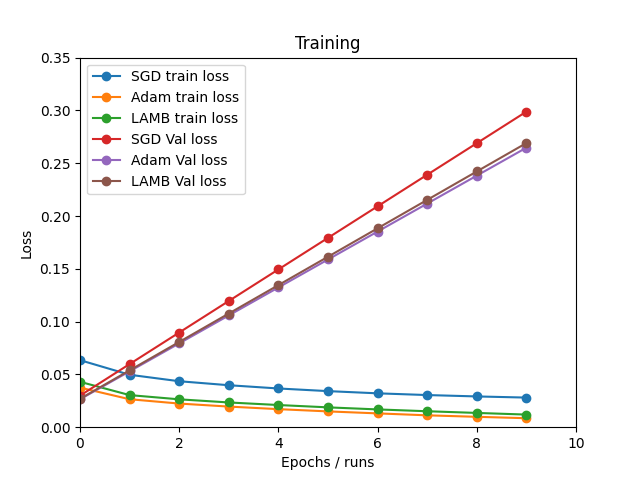
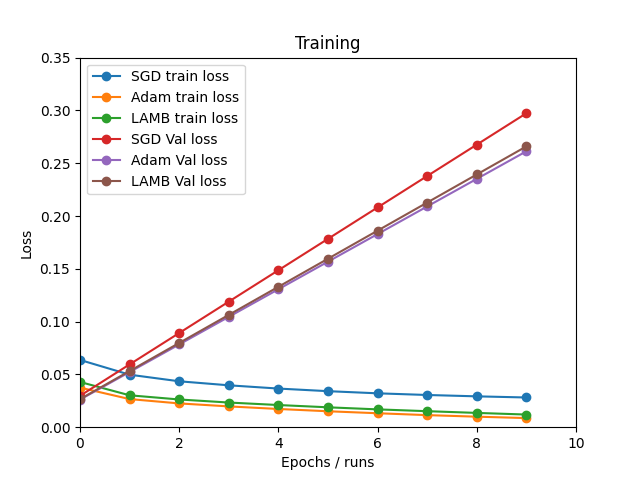
fixing some hyperparameters.

diff --git a/menu.py b/menu.py
@@ -1,8 +1,7 @@
 import sys, os, pathlib, torch, time, math
 import torch_optimizer as optim
-import warnings
-
-from torch.serialization import SourceChangeWarning
+#import warnings
+#from torch.serialization import SourceChangeWarning
 from service import Service
 from plotter import Plotter
 from storage import Storage
@@ -12,8 +11,6 @@ from calculator import Calculator
 class Menu():
     def __init__(self):       
         self.service = Service()
-        self.epochs = 10
-        self.learning_rate = 0.001
         self.plotter = Plotter()
         self.storage = Storage()
         self.calculator = Calculator()
@@ -45,10 +42,10 @@ class Menu():
     # @learning_rate     User input vslue which defines the step size in the data record 
     # @epochs            User input which defines the cycles over the data  
     def validate_and_safe(self, optimizer_name, learning_rate, epochs):
-        self.service.validate_cifar(self.epochs)
-        self.storage.save_csv_file(self.service.optimizer_name, 'training', self.service.training_loss)
-        self.storage.save_csv_file(self.service.optimizer_name, 'validation', self.service.validation_loss)
-        self.storage.save_csv_file(self.service.optimizer_name, 'accuracy', self.service.validation_accuracy)
+        self.service.validate_cifar(self.service.epochs)
+        self.storage.save_csv_file(self.service.optimizer_name, 'training', self.service.training_loss, self.service.epochs)
+        self.storage.save_csv_file(self.service.optimizer_name, 'validation', self.service.validation_loss, self.service.epochs)
+        self.storage.save_csv_file(self.service.optimizer_name, 'accuracy', self.service.validation_accuracy, self.service.epochs)
         print('Data is saved.\n')
 
     # Calls functions to show the selected optimizer benchmark.
@@ -70,24 +67,21 @@ class Menu():
             train_loss_avg_list.append(train_loss_average)
             val_loss_avg_list.append(val_loss_average)
             accuracy_avg_list.append(accuracy_average)
-        self.plotter.plot_loss(train_loss_avg_list, val_loss_avg_list, 0, self.epochs, 0, 0.35, 'Loss', 'Epochs / runs', 'Training', 'Loss', 'Benchmark_overview', 'training')
-        self.plotter.plot_accuracy(accuracy_avg_list, None, None, 0, 100, 'Percent', None, 'Validation', 'Accuracy','Benchmark_overview', 'accuracy')
+        self.plotter.plot_loss(train_loss_avg_list, val_loss_avg_list, 0, self.epochs, 0, 0.35, 'Loss', 'Epochs', 'Training', 'Loss', 'Benchmark_overview', 'training', self.service.epochs)
+        self.plotter.plot_accuracy(accuracy_avg_list, None, None, 0, 100, 'Percent', 'Run', 'Validation', 'Accuracy','Benchmark_overview', 'accuracy', self.service.epochs)
 
     # Executes the functions based on the menu selectection.
     # @selection      selected number    
     def selected_option(self, selection): 
         if selection == '1':
-            print('You selected the SGD optimizer. Parameters are set to 10 epochs and to 0.001 as learning rate.')
-            self.service.training(torch.optim.SGD(self.service.model.parameters(), lr=self.learning_rate), 'SGD', self.learning_rate, self.epochs)
+            self.service.training(torch.optim.SGD(self.service.model.parameters(), lr=self.service.learning_rate), 'SGD', self.service.learning_rate, self.service.epochs)
             self.validate_and_safe('SGD', self.learning_rate, self.epochs)
         elif selection == '2':
-            print('You selected the Adam optimizer. Parameters are set to 10 epochs and to 0.001 as learning rate.') 
-            self.service.training(torch.optim.Adam(self.service.model.parameters(), lr=self.learning_rate), 'Adam', self.learning_rate, self.epochs)
-            self.validate_and_safe('Adam', self.learning_rate, self.epochs)
+            self.service.training(torch.optim.Adam(self.service.model.parameters(), lr=self.service.learning_rate), 'Adam', self.service.learning_rate, self.service.epochs)
+            self.validate_and_safe('Adam', self.service.learning_rate, self.service.epochs)
         elif selection == '3':
-            print('You selected the LAMB optimizer. Parameters are set to 10 epochs and to 0.001 as learning rate.') 
-            self.service.training(optim.Lamb(self.service.model.parameters(), lr=self.learning_rate), 'LAMB', self.learning_rate, self.epochs)
-            self.validate_and_safe('LAMB', self.learning_rate, self.epochs) 
+            self.service.training(optim.Lamb(self.service.model.parameters(), lr=self.learning_rate), 'LAMB', self.service.learning_rate, self.service.epochs)
+            self.validate_and_safe('LAMB', self.service.learning_rate, self.service.epochs) 
         elif selection == '4':
             self.show_benchmark('SGD', 'Adam', 'LAMB')
         elif selection == '5':

diff --git a/service.py b/service.py
@@ -7,11 +7,12 @@ from model import Model
 
 # Class to handles all 
 class Service():
-
     # Initializes the Service object. 
     def __init__(self):
         super().__init__()
         self.batch_size = 32
+        self.epochs = 20
+        self.learning_rate = 0.001
         self.criterion = torch.nn.CrossEntropyLoss() #combines LogSoftmax and NLLLoss in one single class. Good for classification.
         self.optimizer_name = ''
         self.transform = transforms.Compose([transforms.ToTensor(), transforms.Normalize((0.5, 0.5, 0.5), (0.5, 0.5, 0.5))])
@@ -25,15 +26,14 @@ class Service():
         self.validation_accuracy = []  
 
     # Trains the model with the downloaded training dataset. 
-    # @return    the elapsed time to train the model with the given hyperparameters set in the __init__().
+    # @return    the elapsed time to train the model with the given hyperparameters batch size, epochs and learning rate.
     def training(self, optimizer, optimizer_name, learning_rate, epochs):
         print('Training in progress')
         self.model.train()
         self.optimizer_name = optimizer_name
         correct = 0
-        total = 0
         for epoch in range(epochs):
-            running_loss = 0
+            train_loss = 0
             for images, labels in self.training_data: 
                 images, labels = images.to(self.device), labels.to(self.device)
                 output = self.model(images)
@@ -41,29 +41,26 @@ class Service():
                 optimizer.zero_grad()
                 loss.backward() 
                 optimizer.step() 
-                running_loss += loss.item() # the value of this tensor as a standard Python number
-                _, predicted = torch.max(output, 1)
-                total += labels.size(0)
-                correct += (predicted == labels).sum().item()     
-            self.training_loss.append(running_loss / len(self.training_data.dataset))
-            print(f'Epoch {epoch} - Training loss: {running_loss / len(self.training_data.dataset):.10f}')       
+                train_loss += loss.item() # the value of this tensor as a standard Python number   
+            self.training_loss.append(train_loss / len(self.training_data.dataset))
+            print(f'Epoch {epoch} - Training loss: {train_loss / len(self.training_data.dataset):.10f}')       
 
     # Validates the trained model of the with the appropriate validation data set and displays loss and accuracy on the screen.
     def validate_cifar(self, epochs):
         print('Validating trained model.')
         self.model.eval()
         correct = 0
-        total = 0
         val_loss = 0
-        for run in range(epochs):
+        for _ in range(epochs):
             with torch.no_grad():
                 for images, labels in self.validation_data:
                     images, labels = images.to(self.device), labels.to(self.device)
                     outputs = self.model(images)
                     val_loss += self.criterion(outputs, labels).item() 
-                    _, predicted = torch.max(outputs, 1)
-                    total += labels.size(0)
-                    correct += (predicted == labels).sum().item()
+                    predicted = outputs.argmax(1, True)
+                   # _, predicted = torch.max(outputs, 1)
+                    correct += predicted.eq(labels.view_as(predicted)).sum().item()
+                    #correct += (predicted == labels).sum().item()
                 self.validation_loss.append(val_loss / len(self.validation_data.dataset))     
         self.validation_accuracy.append((100.0 * correct / len(self.validation_data.dataset) / epochs)) 
         print(f'{self.optimizer_name} test loss: {val_loss / len(self.validation_data.dataset):.10f}, and test accuracy: {correct / epochs}/{len(self.validation_data.dataset)} ({(100.0 * correct / len(self.validation_data.dataset)) / epochs:.0f}%)')

diff --git a/plotter.py b/plotter.py
@@ -7,8 +7,8 @@ class Plotter():
         self.save_path = './plotter/'
           
     # Plots a graph with the give points list and shows it on screen.
-    # @train_list       list of points to plot.
-    # @val_list       list of points to plot.
+    # @train_list       list of train values to plot.
+    # @validation_list  list of validation values to plot.
     # @x_axis_min       minimum value on the x-axis.
     # @x_axis_max       maximum value on the x-axis. 
     # @y_axis_min       minimum value on the y-axis.
@@ -19,12 +19,14 @@ class Plotter():
     # @legend           descirbes the shown graph.
     # @optimizer_name   Name of the selected optimizer.
     # @graph_name       specifies the name of the graph.
-    def plot_loss(self, train_list, val_list, x_axis_min, x_axis_max, 
+    def plot_loss(self, train_list, validation_list, x_axis_min, x_axis_max, 
                     y_axis_min, y_axis_max, y_label, x_label, 
-                    title, legend, save_file, graph_name):
+                    title, legend, save_file, graph_name, epochs):
+        print(*train_list)
+        print(*validation_list)
         for entry in train_list:
             plt.plot(entry, '-o') 
-        for entry in val_list:
+        for entry in validation_list:
             plt.plot(entry, '-o')
         plt.axis([x_axis_min, x_axis_max, y_axis_min, y_axis_max])
         plt.legend(['SGD train loss', 'Adam train loss', 'LAMB train loss', 
@@ -36,7 +38,7 @@ class Plotter():
             os.mkdir(self.save_path)
         except FileExistsError:
             pass
-        plt.savefig(f'{self.save_path}{save_file}_{graph_name}.png')
+        plt.savefig(f'{self.save_path}{save_file}_{graph_name}_{epochs}.png')
         plt.show()
     
     # Plots a graph with the give points list and shows it on screen.
@@ -51,19 +53,20 @@ class Plotter():
     # @legend           descirbes the shown graph.
     # @optimizer_name   Name of the selected optimizer.
     # @graph_name       specifies the name of the graph.
-    def plot_accuracy(self, value_list, x_axis_min, x_axis_max, 
+    def plot_accuracy(self, acc_list, x_axis_min, x_axis_max, 
                     y_axis_min, y_axis_max, y_label, x_label, 
-                    title, legend, save_file, graph_name):
-        for entry in value_list:
+                    title, legend, save_file, graph_name, epochs):
+        for entry in acc_list:
             plt.plot(entry, '-o') 
         plt.axis([x_axis_min, x_axis_max, y_axis_min, y_axis_max])
         plt.legend(['SGD', 'Adam', 'LAMB'])
         plt.ylabel(y_label)
         plt.xlabel(x_label)
+        plt.xticks([])
         plt.title(title)
         try:
             os.mkdir(self.save_path)
         except FileExistsError:
             pass
-        plt.savefig(f'{self.save_path}{save_file}_{graph_name}.png')
+        plt.savefig(f'{self.save_path}{save_file}_{graph_name}_{epochs}.png')
         plt.show()

diff --git a/storage.py b/storage.py
@@ -9,12 +9,12 @@ class Storage():
     # @optimizer_name      Name of the selected optimizer. Necessaray to load the correct file.   
     # @kind                specifies the save file string either to training or validation.
     # @data_to_save        what kind of data to be saved: training_loss or validation accuracy
-    def save_csv_file(self, optimizer_name, kind, data_to_save):
+    def save_csv_file(self, optimizer_name, kind, data_to_save, epochs):
         try:
             os.mkdir(self.save_path)
         except FileExistsError:
             pass
-        with open(f'{self.save_path}{optimizer_name}_{kind}.csv', 'a', newline='') as csv_validation:
+        with open(f'{self.save_path}{optimizer_name}_{kind}_{epochs}.csv', 'a', newline='') as csv_validation:
             writer = csv.writer(csv_validation, delimiter=',')
             writer.writerow(data_to_save)
             data_to_save.clear()
@@ -25,16 +25,17 @@ class Storage():
     # @return              a list for each row in the csv file, number of lists
     def load_loss_csv(self, optimizer_name, kind): 
         list_in_list = []    
-  
-        with open(f'{self.save_path}{optimizer_name}_{kind}.csv', newline='') as csv_loss:
-            loss = csv.reader(csv_loss, delimiter=',', quoting=csv.QUOTE_NONNUMERIC)          
-            number_of_lists = 0
-            data_list = []
-            for row in loss:
-                data_list.append(row)
-                number_of_lists += 1
-        list_in_list.append(data_list) 
-      #  print(*list_in_list) 
+        try:
+            with open(f'{self.save_path}{optimizer_name}_{kind}.csv', newline='') as csv_loss:
+                loss = csv.reader(csv_loss, delimiter=',', quoting=csv.QUOTE_NONNUMERIC)          
+                number_of_lists = 0
+                data_list = []
+                for row in loss:
+                    data_list.append(row)
+                    number_of_lists += 1
+            list_in_list.append(data_list) 
+        except FileExistsError:
+            print('File not found.')
         return list_in_list, number_of_lists
 
     # Loads the saved validation data csv file.

diff --git a/model.py b/model.py
@@ -10,9 +10,10 @@ class Model(Module):
 
         self.conv_layer = Sequential(
                         Conv2d(in_channels=3, out_channels=24, kernel_size=3, stride=1, padding=1), BatchNorm2d(24), ReLU(),#3 input channels (red, green, blue), 6 output channels, 3x3 filter
-                        Conv2d(24, 32, 3, 1, 1), Dropout(p=0.3), BatchNorm2d(32), ReLU(), MaxPool2d(2),
-                        Conv2d(32, 64, 3, 1, 1), Dropout(p=0.3), BatchNorm2d(64), ReLU(), MaxPool2d(2))
-        self.linear_layer = Sequential(Linear(64 * 8 * 8, 128), ReLU(), 
+                        Conv2d(24, 24, 3, 1, 1), BatchNorm2d(24), ReLU(), MaxPool2d(2),
+                        Conv2d(24, 32, 3, 1, 1), BatchNorm2d(32), ReLU(), MaxPool2d(2),
+                        Conv2d(32, 64, 3, 1, 1), BatchNorm2d(64), ReLU(), MaxPool2d(2))
+        self.linear_layer = Sequential(Linear(64 * 4 * 4, 128), ReLU(), 
                         Linear(128, 64), ReLU(),
                         Linear(64, 10))
   
@@ -21,8 +22,8 @@ class Model(Module):
     # @return    flattened output tensor
     def forward(self, input):
         output = self.conv_layer(input) # 3 color channels, 32x32 pixel image
-        #print(output.shape)
-        output = output.view(-1, 64 * 8 * 8) 
+       # print(output.shape)
+        output = output.view(-1, 64 * 4 * 4) 
         output = self.linear_layer(output)  
         return output
 
